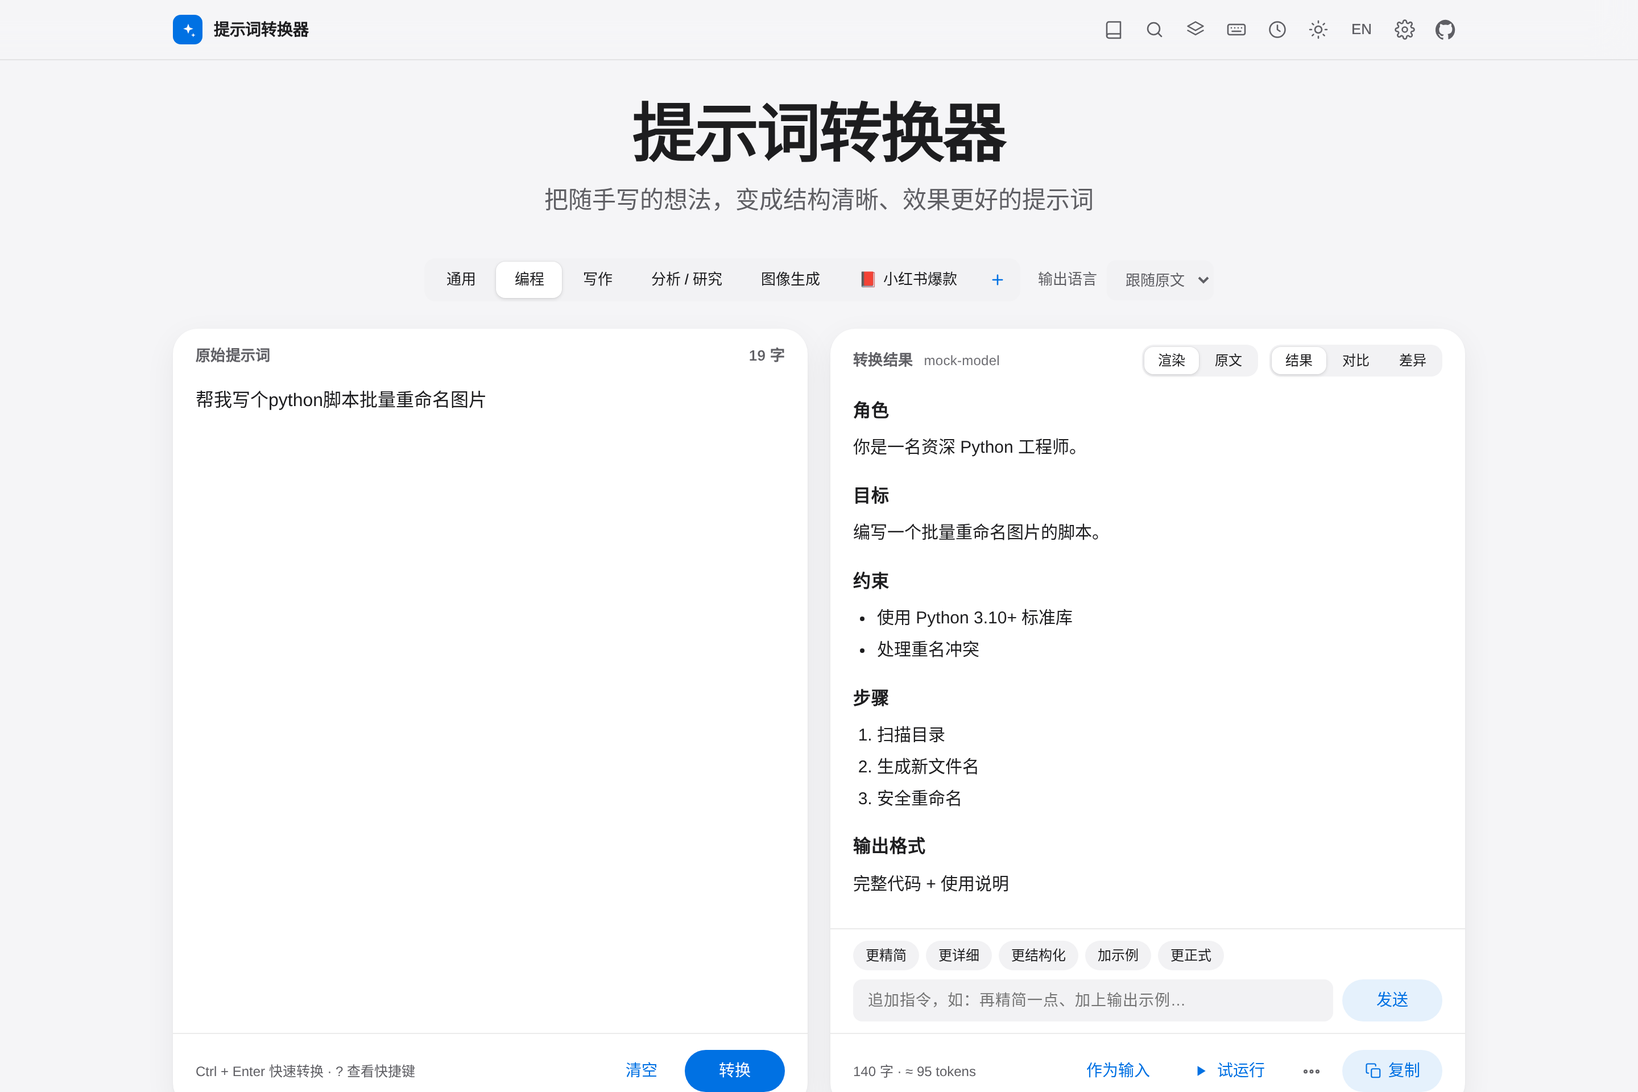
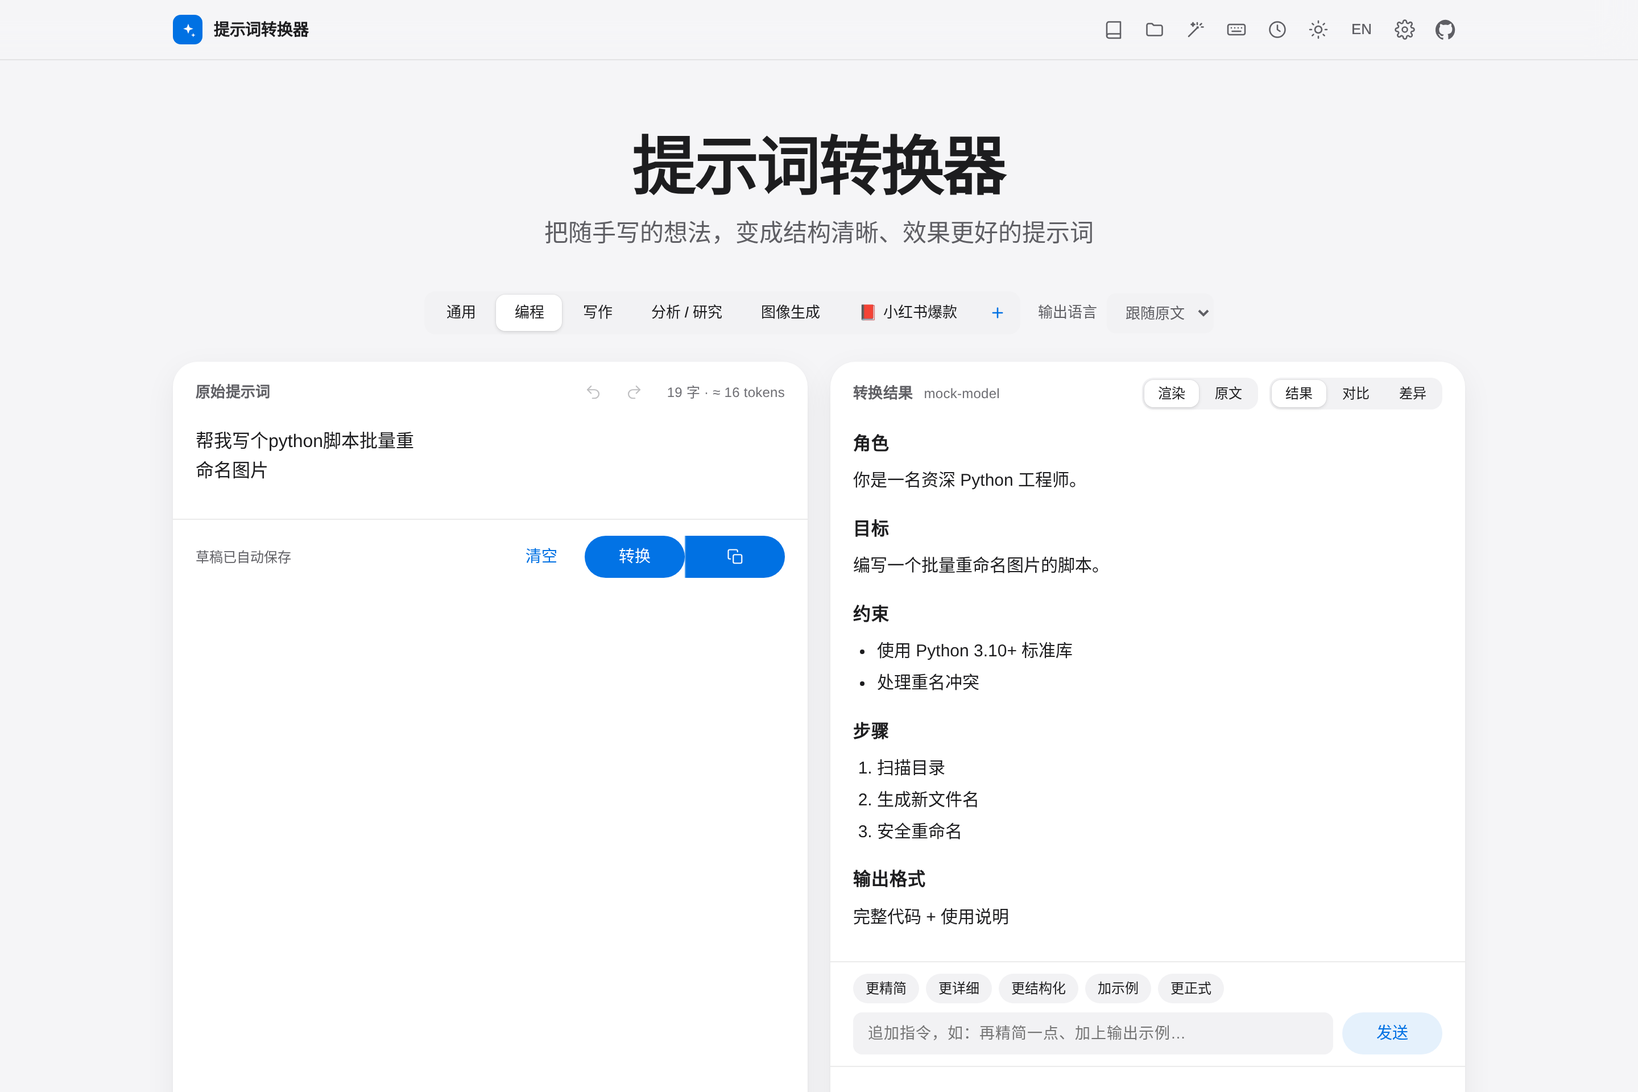
test(e2e): cover v1.5 features; fix undo grouping, header menus, modal survival across re-renders, toast actions

diff --git a/src/main.ts b/src/main.ts
@@ -80,6 +80,7 @@ const nextLang = () => UI_LANGS[(UI_LANGS.indexOf(st.s.uiLang) + 1) % UI_LANGS.l
 function renderApp() {
   applyTheme();
   if (isQuick) return renderQuick();
+  const keep = ['modal-root', 'toast'].map((id) => document.getElementById(id));
   const d = t();
   const s = st.s;
   const prov = providerById(s.provider);
@@ -105,7 +106,7 @@ function renderApp() {
             <button role="menuitem" data-menu="batch">${icons.layers} ${d.batch}</button>
             <button role="menuitem" data-menu="gallery">🧩 ${d.x.gallery}</button>
             <button role="menuitem" data-menu="stats">📊 ${d.x.stats}</button>
-            ${s.sync.kind !== 'off' ? `<button role="menuitem" data-menu="sync">☁ ${d.x.sync}</button>` : ''}
+            <button role="menuitem" data-menu="sync">☁ ${d.x.sync}</button>
             ${isDesktop ? `<button role="menuitem" data-menu="mini">📌 ${d.x.miniMode}</button>` : ''}
           </div>
         </div>
@@ -211,6 +212,8 @@ function renderApp() {
   <footer>v${APP_VERSION}${isDesktop ? ` · ${d.desktop}` : ''} · MIT © amlhdsan · <a href="${REPO_URL}" target="_blank" rel="noopener">GitHub</a> · ${d.starUs}</footer>
   <div id="modal-root"></div>
   <div id="toast" role="status" aria-live="polite"></div>`;
+  // Keep an open dialog / visible toast alive across re-renders (e.g. installing a template refreshes the mode bar).
+  for (const n of keep) if (n && (n.childElementCount || n.className)) document.getElementById(n.id)?.replaceWith(n);
   bind();
   if (focusId && !modalOpen()) document.getElementById(focusId)?.focus?.();
 }
@@ -235,7 +238,9 @@ function bindDetect() {
   $('#detect-apply')?.addEventListener('click', (e) => setMode((e.currentTarget as HTMLElement).dataset.modeApply!));
   $('#detect-dismiss')?.addEventListener('click', () => { const r = detectMode(st.input); st.dismissedDetect = r?.mode ?? ''; refreshDetect(); });
 }
-function doUndo(redo = false) { const v = redo ? undo.redo() : undo.undo(); if (v === null) return; st.input = v; scheduleDraft(); render(); const ta = $<HTMLTextAreaElement>('#input'); ta?.focus(); ta?.setSelectionRange(v.length, v.length); }
+function syncUndoBtns() { const u = document.getElementById('btn-undo') as HTMLButtonElement | null; const r = document.getElementById('btn-redo') as HTMLButtonElement | null; if (u) u.disabled = !(undo.canUndo || typingTimer); if (r) r.disabled = !undo.canRedo; }
+function flushTyping() { if (typingTimer) { clearTimeout(typingTimer); typingTimer = undefined; } }
+function doUndo(redo = false) { if (!redo) flushTyping(); const v = redo ? undo.redo() : undo.undo(); if (v === null) return; st.input = v; scheduleDraft(); render(); const ta = $<HTMLTextAreaElement>('#input'); ta?.focus(); ta?.setSelectionRange(v.length, v.length); }
 async function readDroppedFile(f: File) {
   if (f.size > 2_000_000) { toast(t().x.dropTooBig); return; }
   if (f.type && !/^text\/|json|xml|javascript|markdown|yaml|csv/.test(f.type) && !/\.(txt|md|markdown|json|csv|ya?ml|xml|html?|js|ts|py|java|go|rs|c|cpp|h|sql|sh|log)$/i.test(f.name)) { toast(t().x.dropUnsupported); return; }
@@ -296,9 +301,9 @@ function bind() {
   const ta = $<HTMLTextAreaElement>('#input');
   ta.addEventListener('input', () => {
     // Group keystrokes into one undo step per pause in typing.
-    if (!typingTimer) undo.push(st.input);
-    clearTimeout(typingTimer); typingTimer = setTimeout(() => { typingTimer = undefined; undo.push(ta.value); }, 700);
-    st.input = ta.value; undo.replace(ta.value);
+    if (!typingTimer) undo.push(ta.value); else undo.replace(ta.value);
+    clearTimeout(typingTimer); typingTimer = setTimeout(() => { typingTimer = undefined; syncUndoBtns(); }, 700);
+    st.input = ta.value; syncUndoBtns();
     $('#in-count').textContent = inCount(); scheduleDraft();
     const ds = $('#draft-state'); if (ds) ds.textContent = '…';
     $('#btn-clear')?.removeAttribute('disabled');
@@ -342,8 +347,6 @@ function bind() {
   $('#btn-examples')?.addEventListener('click', () => openLibrary(focusInput));
   $('#btn-templates').addEventListener('click', () => openTemplates());
   $('#btn-lang').addEventListener('click', () => { st.s.uiLang = nextLang(); persist(); render(); });
-  $('#btn-palette').addEventListener('click', palette);
-  $('#btn-batch').addEventListener('click', openBatch);
   $('#btn-fill')?.addEventListener('click', openFill);
   $('#recovered-dismiss')?.addEventListener('click', () => { recoveredSeen = true; render(); });
   $('#hotkey-fix')?.addEventListener('click', () => { hotkeyIssue = ''; openSettings(); });
@@ -448,7 +451,7 @@ document.addEventListener('keydown', (e) => {
   if (mod && (e.target as HTMLElement)?.id === 'input' && (e.code === 'KeyZ' || e.code === 'KeyY')) {
     // Our own undo stack survives re-renders (the native one doesn't).
     const redo = e.code === 'KeyY' || e.shiftKey;
-    if (redo ? undo.canRedo : (undo.canUndo || typingTimer)) { e.preventDefault(); if (typingTimer) { clearTimeout(typingTimer); typingTimer = undefined; undo.push(st.input); } doUndo(redo); }
+    if (redo ? undo.canRedo : (undo.canUndo || typingTimer)) { e.preventDefault(); doUndo(redo); }
     return;
   }
   if (e.key === 'Escape') {

diff --git a/src/style.css b/src/style.css
@@ -464,7 +464,7 @@ del { background: rgba(255, 59, 48, .14); color: var(--text-2); border-radius: 3
 .ob-grid, .gl-grid { display: grid; grid-template-columns: repeat(auto-fill, minmax(170px, 1fr)); gap: 10px; }
 .ob-grid button, .gl-card { text-align: left; padding: 12px; border-radius: var(--r); border: 1px solid var(--separator); background: var(--surface); cursor: pointer; font: inherit; color: inherit; transition: border-color var(--dur), box-shadow var(--dur); }
 .ob-grid button:hover, .ob-grid button.on, .gl-card:hover { border-color: var(--accent); box-shadow: 0 0 0 3px var(--accent-tint); }
-.ob-dots { display: flex; gap: 6px; justify-content: center; margin-top: 12px; } .ob-dots i { width: 7px; height: 7px; border-radius: 50%; background: var(--separator); } .ob-dots i.on { background: var(--accent); }
+.ob-dots { display: flex; gap: 6px; justify-content: center; margin-top: 12px; } .ob-dots .dot { display: inline-block; width: 7px; height: 7px; border-radius: 50%; background: var(--separator); } .ob-dots .dot.on { background: var(--accent); }
 .ob-sample { padding: 10px 12px; border-radius: var(--r-sm); background: var(--surface-2); font-size: 14px; margin: 8px 0; }
 .ok { color: #248a3d; } .err { color: var(--danger); }
 .ws-tools { display: flex; flex-wrap: wrap; gap: 8px; margin-bottom: 10px; } .ws-tools input[type=search] { flex: 1; min-width: 160px; }
@@ -499,3 +499,5 @@ html[data-font=sm] { font-size: 14px; } html[data-font=lg] { font-size: 17px; } 
 @media (prefers-reduced-motion: reduce) { *, *::before { animation-duration: .01ms !important; transition-duration: .01ms !important; } }
 .mini header .hide-mini, .mini .footer, .mini .modes { display: none; }
 @media (max-width: 640px) { .ver-layout, .stats-cols, .shot { grid-template-columns: 1fr; } .cmp-grid { grid-template-columns: 1fr; } .split-r { display: none; } }
+#toast.show:has(#toast-action) { pointer-events: auto; }
+header .menu { position: relative; } header .menu-pop { top: 42px; bottom: auto; }

diff --git a/src/ui/dialogs/settings.ts b/src/ui/dialogs/settings.ts
@@ -25,7 +25,8 @@ async function saveBackup(json: string) {
   download(name, json, 'application/json'); return true;
 }
 
-let showAdv = false;
+let showAdv = (() => { try { return localStorage.getItem('pc.setAdv') === '1'; } catch { return false; } })();
+const rememberAdv = () => { try { localStorage.setItem('pc.setAdv', showAdv ? '1' : '0'); } catch { /* ignore */ } };
 export function openSettings() {
   const d = t();
   const s = st.s;
@@ -118,8 +119,8 @@ export function openSettings() {
     const q = <T extends HTMLElement = HTMLInputElement>(id: string) => root.querySelector('#' + id) as T;
     const form = q<HTMLElement>('set-form');
     const applyView = () => { form.classList.toggle('show-adv', showAdv || !!q('set-search').value.trim()); q('set-basic').className = showAdv ? '' : 'on'; q('set-adv').className = showAdv ? 'on' : ''; q('set-basic').setAttribute('aria-selected', String(!showAdv)); q('set-adv').setAttribute('aria-selected', String(showAdv)); };
-    q('set-basic').addEventListener('click', () => { showAdv = false; applyView(); });
-    q('set-adv').addEventListener('click', () => { showAdv = true; applyView(); });
+    q('set-basic').addEventListener('click', () => { showAdv = false; rememberAdv(); applyView(); });
+    q('set-adv').addEventListener('click', () => { showAdv = true; rememberAdv(); applyView(); });
     q('set-search').addEventListener('input', () => {
       const term = q('set-search').value.trim().toLowerCase(); applyView();
       form.querySelectorAll<HTMLElement>('label, .field, .profiles, .row.between, .row.wrap').forEach((el) => {

diff --git a/src/ui/dialogs/sync.ts b/src/ui/dialogs/sync.ts
@@ -55,9 +55,9 @@ export function openSync() {
     root.addEventListener('input', save); root.addEventListener('change', save);
     $r('#sy-now').addEventListener('click', async () => {
       save(); const el = $r<HTMLElement>('#sy-status'); const btn = $r<HTMLButtonElement>('#sy-now');
-      el.innerHTML = `<span class="spin"></span>${esc(x.syncing)}`; btn.disabled = true;
-      try { const msg = await syncNow(); el.textContent = '✓ ' + msg; $r('#sy-gid').value = st.s.sync.gistId; toast(msg); rerender(); }
-      catch (e) { el.textContent = '✕ ' + syncError(e); }
+      el.className = 'small muted'; el.innerHTML = `<span class="spin"></span>${esc(x.syncing)}`; btn.disabled = true;
+      try { const msg = await syncNow(); el.textContent = '✓ ' + msg; el.className = 'small ok'; $r('#sy-gid').value = st.s.sync.gistId; toast(msg); rerender(); }
+      catch (e) { el.textContent = '✕ ' + syncError(e); el.className = 'small err'; }
       finally { btn.disabled = false; }
     });
   });

diff --git a/tests/e2e.py b/tests/e2e.py
@@ -1,6 +1,6 @@
 """End-to-end test: serves dist via `vite preview`, mocks an OpenAI-compatible API, drives the UI with Playwright.
 Run: npm run build && python3 tests/e2e.py   (requires: pip install playwright && playwright install chromium)"""
-import subprocess, time, sys, os, json
+import subprocess, time, sys, os, json, re
 from playwright.sync_api import sync_playwright
 ROOT = os.path.dirname(os.path.dirname(os.path.abspath(__file__)))
 mock = subprocess.Popen(['node', 'tests/mock-server.mjs', '8787'], cwd=ROOT)
@@ -28,7 +28,7 @@ try:
         pg.goto('http://127.0.0.1:4174/')
         settings = {'provider': 'custom', 'baseUrl': 'http://127.0.0.1:8787/v1', 'model': 'mock-model', 'apiKeys': {'custom': 'sk-test'}, 'stream': True}
         pg.evaluate(f"localStorage.setItem('pc.settings.v1', JSON.stringify({json.dumps(settings)}))")
-        pg.evaluate("localStorage.setItem('pc.updateApi','http://127.0.0.1:8787'); localStorage.removeItem('pc.update.v1')")
+        pg.evaluate("localStorage.setItem('pc.updateApi','http://127.0.0.1:8787'); localStorage.setItem('pc.setAdv','1'); localStorage.removeItem('pc.update.v1')")
         pg.reload()
         pg.wait_for_selector('#update-notice', timeout=15000)
         check('v9.9.0' in pg.inner_text('#update-notice'), 'update notice shown for newer release')
@@ -389,6 +389,116 @@ try:
         pg.click('#btn-lang'); check('Prompt Converter' in pg.inner_text('h1'), 'English toggle')
         pg.click('#btn-lang'); check(pg.evaluate("document.documentElement.lang") == 'ja' and 'プロンプト' in pg.inner_text('h1'), 'Japanese toggle')
         pg.click('#btn-lang'); check(pg.evaluate("document.documentElement.lang") == 'zh-CN', 'language cycles back to Chinese')
+        # ===== v1.5 =====
+        def tools(item):
+            pg.click('#btn-tools'); pg.click(f'#tools-menu [data-menu="{item}"]'); pg.wait_for_selector('#modal-root .overlay')
+        def close_modal():
+            pg.keyboard.press('Escape'); pg.wait_for_function("!document.querySelector('#modal-root .overlay')")
+        patch({'theme': 'light', 'apiKeys': {'custom': 'sk-test'}, 'baseUrl': 'http://127.0.0.1:8787/v1', 'stream': True})
+        # undo/redo + counter + draft
+        pg.fill('#input', ''); pg.type('#input', 'abc'); pg.fill('#input', 'abcdef'); pg.dispatch_event('#input', 'input')
+        check('6' in pg.inner_text('#in-count'), 'character counter updates')
+        pg.wait_for_timeout(900); pg.reload(); pg.wait_for_selector('#input')
+        check(pg.input_value('#input') == 'abcdef', 'draft restored after reload')
+        pg.fill('#input', 'xyz'); pg.wait_for_timeout(50); pg.click('#btn-undo'); check(pg.input_value('#input') == 'abcdef', 'undo restores previous text')
+        pg.click('#btn-redo'); check(pg.input_value('#input') == 'xyz', 'redo reapplies')
+        # auto-detect chip
+        pg.click('[data-mode="general"]'); pg.fill('#input', '帮我写一个 Python 函数，修复这个 bug 并给出代码'); pg.dispatch_event('#input', 'input'); pg.wait_for_timeout(500)
+        check(pg.locator('#detect-apply').count() == 1, 'auto-detect suggests a mode')
+        pg.click('#detect-apply'); check(pg.get_attribute('[data-mode="coding"]', 'aria-selected') == 'true', 'detect chip switches mode')
+        # drag & drop a text file
+        pg.fill('#input', ''); pg.evaluate("""()=>{const dt=new DataTransfer();dt.items.add(new File(['dropped text 123'],'a.txt',{type:'text/plain'}));const el=document.querySelector('#input');el.dispatchEvent(new DragEvent('dragover',{dataTransfer:dt,bubbles:true}));el.dispatchEvent(new DragEvent('drop',{dataTransfer:dt,bubbles:true}))}""")
+        pg.wait_for_timeout(300); check(pg.input_value('#input') == 'dropped text 123', 'drag & drop imports a text file')
+        # clear with undo toast
+        pg.click('#btn-clear'); pg.wait_for_selector('#toast-action'); pg.click('#toast-action'); check(pg.input_value('#input') == 'dropped text 123', 'clear is undoable')
+        # convert & copy
+        convert_text('帮我写个python脚本批量重命名图片')
+        pg.fill('#input', '帮我写个python脚本批量重命名图片'); pg.click('#btn-convert-copy'); pg.wait_for_function("!document.querySelector('.card.busy')"); pg.wait_for_timeout(300)
+        check('资深 Python' in pg.evaluate("navigator.clipboard.readText()"), 'convert & copy puts result on clipboard')
+        # workspace
+        pg.keyboard.press('Control+s'); pg.wait_for_timeout(200)
+        n_ws = pg.evaluate("JSON.parse(localStorage.getItem('pc.workspace.v1')||'[]').length"); check(n_ws == 1, 'Ctrl+S saves to library')
+        pg.click('#btn-workspace'); pg.wait_for_selector('#ws-list')
+        check(pg.locator('[data-ws-use]').count() == 1, 'library lists saved prompt')
+        pg.fill('#ws-search', 'zzzqqq'); pg.wait_for_timeout(150); check(pg.locator('[data-ws-use]').count() == 0, 'library search filters')
+        pg.fill('#ws-search', ''); pg.wait_for_timeout(150)
+        pg.click('[data-ws-edit]'); pg.wait_for_selector('#we-body'); pg.fill('#we-body', 'edited body v2'); pg.fill('#we-tags', 'e2e, demo'); pg.click('#we-save'); pg.wait_for_timeout(200)
+        w = pg.evaluate("JSON.parse(localStorage.getItem('pc.workspace.v1'))[0]")
+        check(w['body'] == 'edited body v2' and len(w['versions']) >= 1 and 'e2e' in w['tags'], 'edit creates a version + tags')
+        if pg.locator('#ws-list').count() == 0: pg.click('#btn-workspace'); pg.wait_for_selector('#ws-list')
+        pg.click('[data-ws-hist]'); pg.wait_for_selector('#ver-restore'); pg.locator('#ver-list [data-ver]').last.click(); pg.click('#ver-restore'); pg.wait_for_timeout(200)
+        check('资深' in pg.evaluate("JSON.parse(localStorage.getItem('pc.workspace.v1'))[0].body"), 'version restore works')
+        if pg.locator('#modal-root .overlay').count(): close_modal()
+        pg.click('#btn-workspace'); pg.wait_for_selector('#ws-list'); pg.screenshot(path=os.path.join(ROOT, 'docs/workspace.png'))
+        pg.click('[data-ws-del]'); pg.wait_for_timeout(100)
+        if pg.locator('[data-ws-del]').count(): pg.click('[data-ws-del]')
+        pg.wait_for_selector('#toast-action'); check(pg.evaluate("JSON.parse(localStorage.getItem('pc.workspace.v1')).length") == 0, 'library delete')
+        pg.click('#toast-action'); pg.wait_for_timeout(100); check(pg.evaluate("JSON.parse(localStorage.getItem('pc.workspace.v1')).length") == 1, 'library delete undo')
+        if pg.locator('#modal-root .overlay').count(): close_modal()
+        # compare
+        tools('compare'); pg.fill('#cmp-extra', 'mock-b'); pg.click('#cmp-run')
+        pg.wait_for_function("document.querySelectorAll('.cmp-col').length >= 2 && !document.querySelector('#cmp-grid .spin')", timeout=15000)
+        check(pg.locator('.cmp-col').count() >= 2 and pg.inner_text('#cmp-grid').count('TEST_RUN_ANSWER') >= 2, 'compare runs models side by side')
+        pg.screenshot(path=os.path.join(ROOT, 'docs/compare.png')); close_modal()
+        # chat
+        pg.click('#btn-chat'); pg.wait_for_selector('#chat-input'); pg.fill('#chat-input', '你好'); pg.click('#chat-send')
+        pg.wait_for_function("document.querySelectorAll('#chat-log .msg').length >= 2 && !document.querySelector('#chat-log .spin')", timeout=15000)
+        lr = pg.evaluate("fetch('http://127.0.0.1:8787/__last').then(r=>r.json())")['body']
+        check(lr['messages'][0]['role'] == 'system' and '资深' in lr['messages'][0]['content'] and lr['messages'][-1]['content'] == '你好', 'chat uses converted prompt as system')
+        close_modal()
+        # toolbox
+        before = pg.inner_text('#output')
+        tools('toolbox'); pg.click('[data-tool="cot"]'); pg.click('#tool-go'); pg.wait_for_timeout(200)
+        check(pg.inner_text('#output') != before, 'toolbox applies chain-of-thought')
+        if pg.locator('#modal-root .overlay').count(): close_modal()
+        tools('toolbox'); pg.click('[data-tool="image"]'); pg.wait_for_selector('#img-preview')
+        pg.wait_for_timeout(100); check('--ar' in pg.inner_text('#img-preview'), 'image preset formats Midjourney params')
+        close_modal()
+        # gallery
+        n0 = pg.evaluate("JSON.parse(localStorage.getItem('pc.templates.v1')||'[]').length")
+        tools('gallery'); pg.locator('[data-gl-install]').first.click(); pg.wait_for_timeout(150)
+        check(pg.evaluate("JSON.parse(localStorage.getItem('pc.templates.v1')||'[]').length") == n0 + 1, 'gallery installs a template')
+        pg.click('.gl-import summary'); pg.fill('#gl-url', 'http://127.0.0.1:8787/pack.json'); pg.click('#gl-fetch'); pg.wait_for_function("document.querySelector('#gl-status').textContent.includes('E2E')", timeout=8000)
+        check('E2E Pack' in pg.inner_text('#modal-root'), 'gallery imports a pack by URL')
+        pg.screenshot(path=os.path.join(ROOT, 'docs/gallery.png')); close_modal()
+        # stats
+        tools('stats'); n_calls = int(re.sub(r'\D', '', pg.inner_text('#kpi-calls')) or 0)
+        check(n_calls >= 3, f'stats records usage ({n_calls})'); pg.screenshot(path=os.path.join(ROOT, 'docs/stats.png')); close_modal()
+        # sync: webdav + gist round trip
+        tools('sync'); pg.click('[data-sy="webdav"]'); pg.fill('#sy-url', 'http://127.0.0.1:8787/dav/'); pg.fill('#sy-user', 'u'); pg.fill('#sy-pass', 'p')
+        pg.click('#sy-now'); pg.wait_for_function("/[0-9]/.test(document.querySelector('#sy-status').textContent) && !document.querySelector('#sy-now').disabled", timeout=8000)
+        dav = pg.evaluate("fetch('http://127.0.0.1:8787/dav/prompt-converter-sync.json',{headers:{Authorization:'Basic '+btoa('u:p')}}).then(r=>r.status)")
+        check(dav == 200, 'WebDAV push stored the bundle')
+        pg.fill('#sy-pass', 'wrong'); pg.click('#sy-now'); pg.wait_for_timeout(500)
+        check(pg.evaluate("document.querySelector('#sy-status').className").find('err') >= 0, 'WebDAV auth error shown')
+        pg.evaluate("localStorage.setItem('pc.gistApi','http://127.0.0.1:8787')")
+        pg.click('[data-sy="gist"]'); pg.fill('#sy-token', 'ghp-test'); pg.click('#sy-now'); pg.wait_for_timeout(800)
+        check(pg.evaluate("JSON.parse(localStorage.getItem('pc.settings.v1')).sync.gistId") == 'g1', 'Gist sync creates a private gist')
+        close_modal()
+        # settings search + appearance
+        pg.click('#btn-settings'); pg.wait_for_selector('#set-search'); pg.fill('#set-search', '强调'); pg.wait_for_timeout(150)
+        check(pg.locator('[data-accent]').first.is_visible(), 'settings search finds accent option')
+        pg.locator('[data-accent]').nth(2).click(); pg.fill('#set-search', ''); pg.locator('#f-compact').check(); pg.click('.modal [data-close].primary')
+        pg.wait_for_timeout(200)
+        if pg.locator('#modal-root .overlay').count(): close_modal()
+        s2 = pg.evaluate("JSON.parse(localStorage.getItem('pc.settings.v1'))")
+        check(s2.get('compact') is True and pg.evaluate("document.documentElement.classList.contains('compact') || document.body.classList.contains('compact')"), 'compact mode applied')
+        patch({'compact': False, 'accent': ''})
+        # onboarding + demo mode (fresh profile)
+        pg.evaluate("localStorage.clear()"); pg.reload(); pg.wait_for_selector('#ob-next', timeout=8000)
+        check(True, 'onboarding shown on first run'); pg.screenshot(path=os.path.join(ROOT, 'docs/onboarding.png'))
+        pg.click('#ob-demo'); pg.wait_for_timeout(200)
+        check(pg.locator('#demo-exit').count() == 1, 'demo mode banner')
+        pg.fill('#input', '写一封请假邮件'); pg.click('#btn-convert'); pg.wait_for_function("!document.querySelector('.card.busy')", timeout=15000)
+        check(len(pg.inner_text('#output')) > 40, 'demo mode produces sample output without a key')
+        pg.click('#demo-exit'); pg.wait_for_timeout(200); check(pg.locator('#demo-exit').count() == 0, 'demo mode exits')
+        pg.evaluate("localStorage.clear()"); pg.reload(); pg.wait_for_selector('#ob-next')
+        pg.click('#ob-next'); pg.locator('[data-ob-prov="custom"]').first.dispatch_event('click'); pg.wait_for_timeout(100); pg.click('#ob-next'); pg.wait_for_selector('#ob-base')
+        pg.fill('#ob-base', 'http://127.0.0.1:8787/v1'); pg.fill('#ob-key', 'sk-test'); pg.fill('#ob-model', 'mock-model'); pg.click('#ob-test')
+        pg.wait_for_function("document.querySelector('#ob-status').className.includes('ok')", timeout=8000); check(True, 'onboarding connection test')
+        pg.click('#ob-next'); pg.click('#ob-run'); pg.wait_for_function("document.querySelector('#ob-out') && document.querySelector('#ob-out').textContent.length > 20", timeout=15000)
+        check(True, 'onboarding sample conversion'); pg.click('#ob-finish'); pg.wait_for_timeout(200)
+        s3 = pg.evaluate("JSON.parse(localStorage.getItem('pc.settings.v1'))"); check(s3['onboarded'] and s3['apiKeys'].get('custom') == 'sk-test', 'onboarding saves provider + key')
         # dark screenshot
         pg.evaluate("(()=>{const s=JSON.parse(localStorage.getItem('pc.settings.v1'));s.theme='dark';s.apiKeys.custom='sk-test';s.baseUrl='http://127.0.0.1:8787/v1';s.stream=true;localStorage.setItem('pc.settings.v1',JSON.stringify(s))})()")
         pg.reload(); pg.fill('#input', '帮我写个python脚本批量重命名图片'); pg.click('[data-mode="coding"]'); pg.click('#btn-convert')
